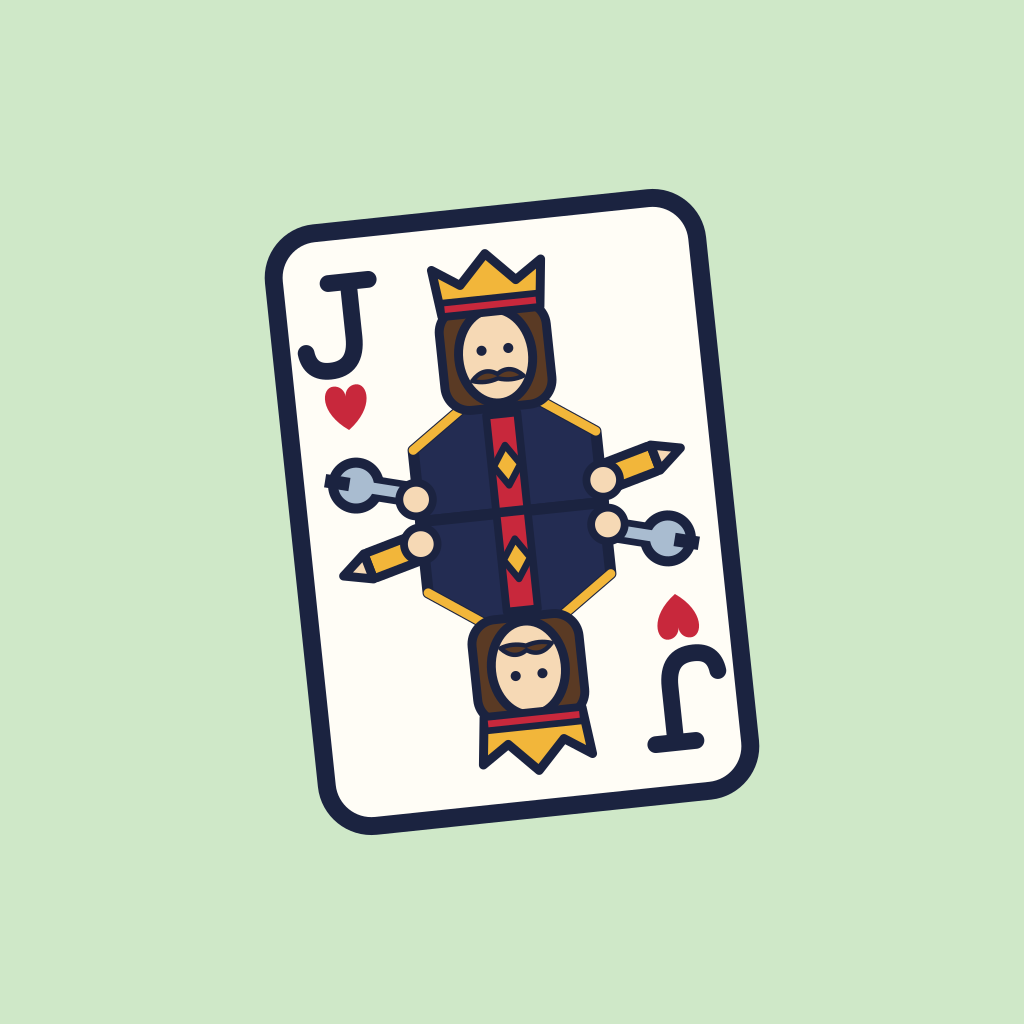
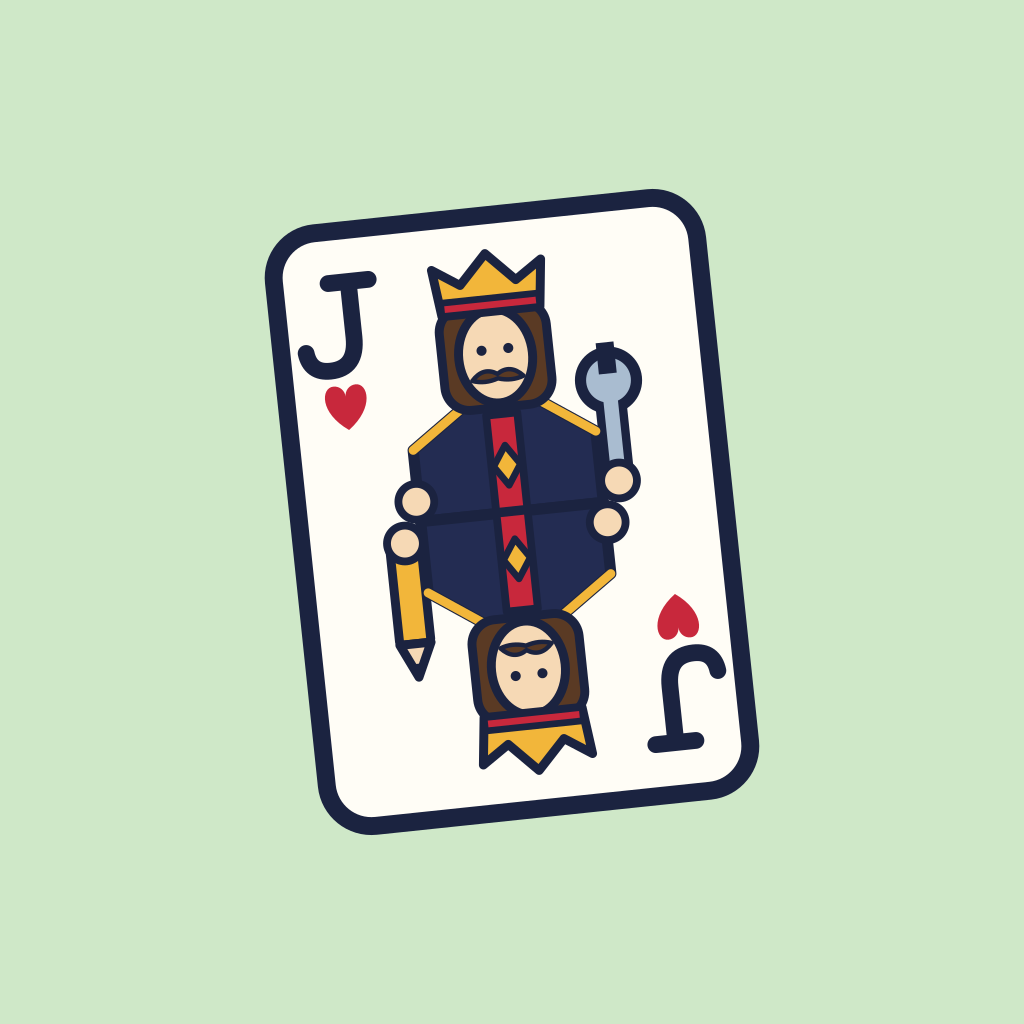
feat(brand): upper Jack holds wrench, lower holds pencil, both upright

Changed region(s): [[0.5625, 0.3125, 0.6875, 0.5625], [0.3125, 0.4375, 0.4375, 0.6562]]

diff --git a/docs/PROGRESS.md b/docs/PROGRESS.md
@@ -143,7 +143,7 @@
 
 | When (IST) | Agent | Task | Summary | Commit |
 |---|---|---|---|---|
-| 2026-10-24 | Claude Code | logo | Sloth icon replaced by a double-ended (mirrored) playing-card Jack with a wrench and a pencil in each half (Jack of all trades): `assets/icon.svg` is source, PNGs + PWA icons rendered from it with `rsvg-convert`; Android adaptive/mono + favicon updated; not checked on a device | see git log |
+| 2026-10-24 | Claude Code | logo | Sloth icon replaced by a double-ended (mirrored) playing-card Jack with the upper half holding a wrench and the lower a pencil, both held upright (Jack of all trades): `assets/icon.svg` is source, PNGs + PWA icons rendered from it with `rsvg-convert`; Android adaptive/mono + favicon updated; not checked on a device | see git log |
 | 2026-10-24 | Claude Code | T-75 | On-device Gemma 4 E2B via LiteRT-LM (Kotlin Expo module, download, Settings card), eval live status + saved log, OpenRouter daily-quota 429 fails fast; 642 tests, web export OK; Kotlin not yet compiled, no device run | see git log |
 | 2026-10-24 | Codex | T-48 code | Optional Qwen3.5-2B Q4_K_M + vision/ONNX, persisted Settings/eval selection, cold-start restoration; 635 tests/export/browser smoke pass; phone acceptance pending | see git log |
 | 2026-10-23 | Claude Code | T-63 | Sloth icon set, PWA manifest, `+html.tsx`, Pages workflow, `baseUrl` `/jackapp`; export verified under subpath; installability on phone pending (AT-13) | see git log |
